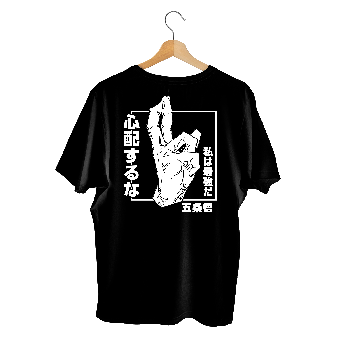
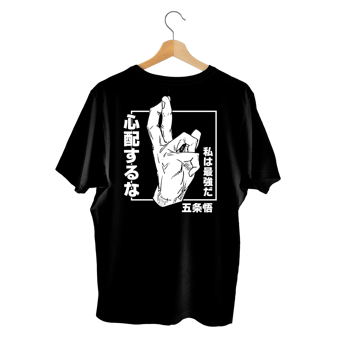
add html

diff --git a/resize.py b/resize.py
@@ -1,0 +1,12 @@
+from PIL import Image
+from os import listdir
+
+mypath = "static/img/merch/test"
+
+onlyfiles = [f for f in listdir(mypath)]
+
+for i in onlyfiles:
+    foo = Image.open(f'{mypath}/{i}')
+    print(foo.size)
+    foo = foo.resize((350, 350))
+    foo.save(f'static/img/merch/ready/{i}', optimize=True, quality=95)
